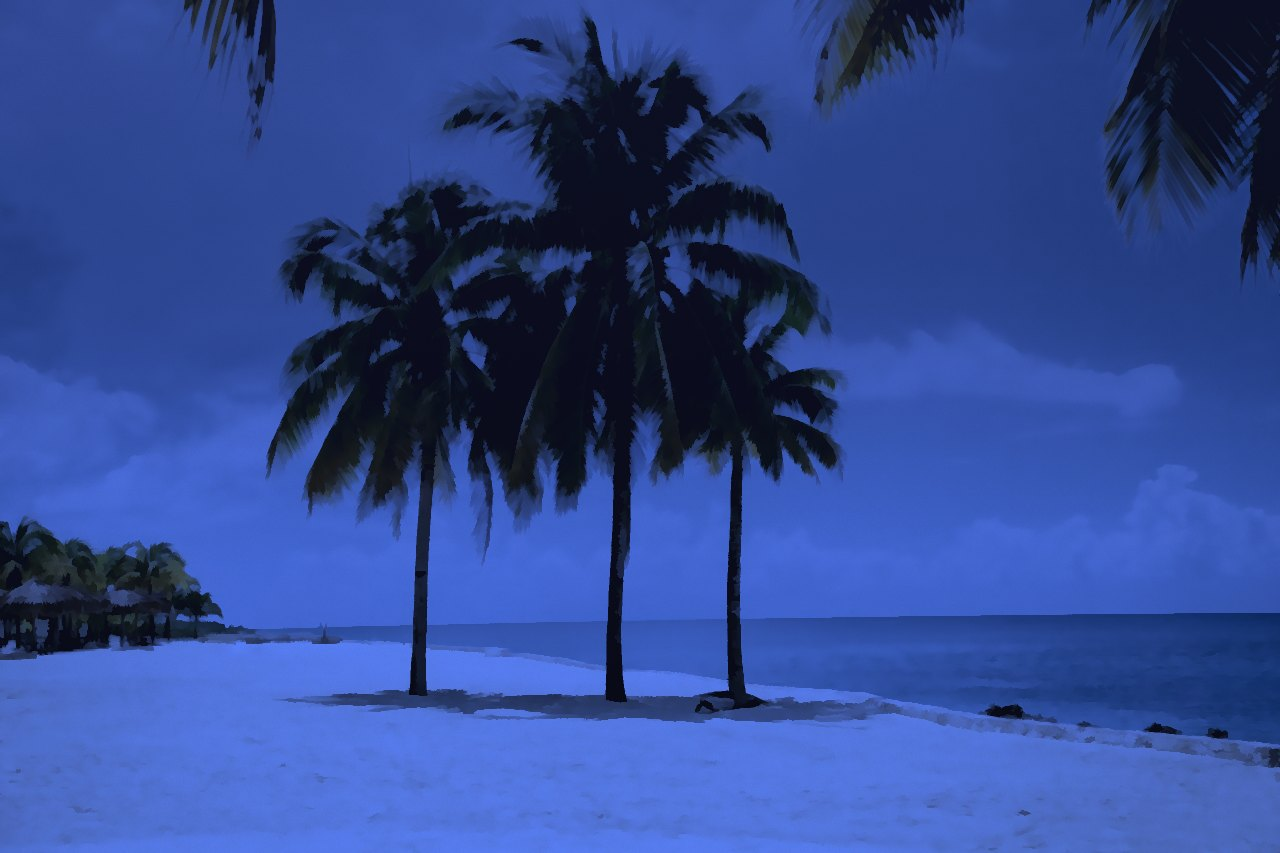
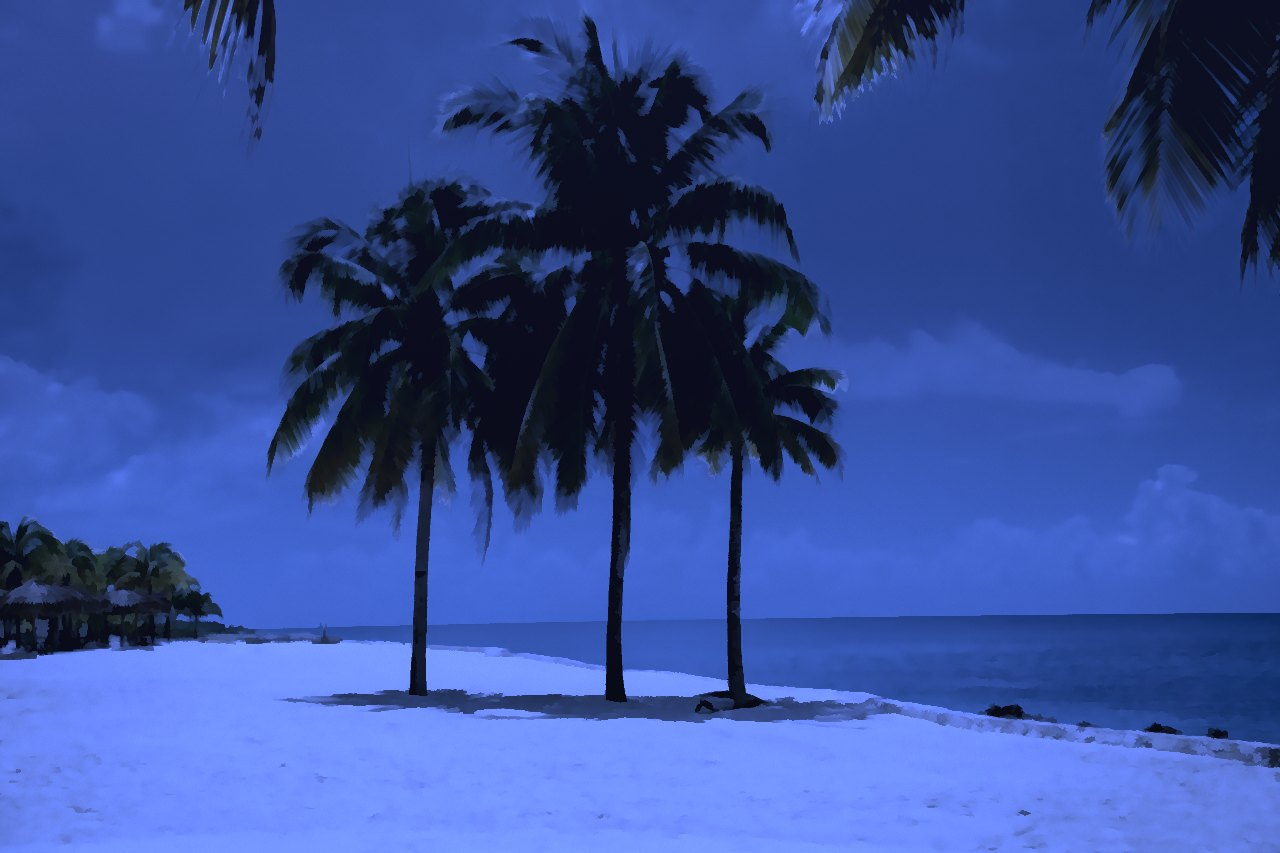
Schedule: sakura, a blossoming orchard and a flower meadow join the places

diff --git a/src/app/dev/shell/scenes/photos.ts b/src/app/dev/shell/scenes/photos.ts
@@ -91,6 +91,52 @@ export const PLACES = {
     sunset: shot("desert-sunset", { horizon: 0.33, swing: 0, life: ["sand", "birds"] }),
     night: shot("desert-night", { horizon: 0.72, swing: 0, life: ["sand"] }),
   },
+  sakura: {
+    day: shot("sakura-day", { horizon: 0.6, sway: [0.3, 0.62], life: ["petals", "birds"] }),
+    sunset: shot("sakura-sunset", { horizon: 0.45, sway: [0.35, 0.85], life: ["petals", "birds"] }),
+    // made from the day's photograph: the night photographs found were floodlit and crowded
+    night: shot(
+      "sakura-night",
+      { horizon: 0.6, sway: [0.3, 0.62], life: ["petals", "fireflies"] },
+      "sakura-day"
+    ),
+  },
+  orchard: {
+    day: shot("orchard-day", { horizon: 0.02, sway: [0, 0.6], life: ["petals", "butterflies"] }),
+    sunset: shot("orchard-sunset", { horizon: 0.5, sway: [0.05, 0.6], life: ["petals", "birds"] }),
+    // made from the day's photograph: no photograph of a blossoming orchard at night was found
+    night: shot(
+      "orchard-night",
+      { horizon: 0.02, sway: [0, 0.6], life: ["petals", "fireflies"] },
+      "orchard-day"
+    ),
+  },
+  garden: {
+    sunrise: shot("garden-sunrise", {
+      horizon: 0.14,
+      sway: [0.2, 1],
+      swing: 1.5,
+      life: ["butterflies", "birds"],
+    }),
+    day: shot("garden-day", {
+      horizon: 0.32,
+      sway: [0.4, 1],
+      swing: 1.5,
+      life: ["butterflies", "birds"],
+    }),
+    sunset: shot("garden-sunset", {
+      horizon: 0.3,
+      sway: [0.35, 1],
+      swing: 1.5,
+      life: ["butterflies", "birds"],
+    }),
+    night: shot("garden-night", {
+      horizon: 0.72,
+      sway: [0.45, 0.78],
+      swing: 1.5,
+      life: ["fireflies"],
+    }),
+  },
 } satisfies Record<string, Partial<Record<Sky, Picture>>>;
 
 export type Place = keyof typeof PLACES;

diff --git a/public/scenes/README.md b/public/scenes/README.md
@@ -22,10 +22,18 @@ sources are kept here so each can be traced (the title is the file's name on Wik
 | desert-day.jpg | Arid Desolation (Unsplash).jpg | CC0 |
 | desert-sunset.jpg | Sandscape (Unsplash).jpg | CC0 |
 | desert-night.jpg | Milky Way over a Dune Ridge (53908885943).jpg | Public domain |
+| garden-sunrise.jpg | Super Bloom 2017 at Carrizo Plain National Monument (34128252015).jpg | Public domain |
+| garden-day.jpg | Wildflower Meadow (6997737191).jpg | Public domain |
+| garden-sunset.jpg | Coconino National Forest (20170823-FS-Coconino-DLS-011).jpg | Public domain |
+| garden-night.jpg | Flowers and Milky Way (19928301093).jpg | Public domain |
 | mountains-sunrise.jpg | Seiser Alm meadow (Unsplash).jpg | CC0 |
 | mountains-day.jpg | Valley near beautiful lake (Unsplash).jpg | CC0 |
 | mountains-sunset.jpg | Idyllic Seiser Alm meadow (Unsplash).jpg | CC0 |
 | mountains-night.jpg | Yosemite cliff under stars (Unsplash).jpg | CC0 |
+| orchard-day.jpg | Pretty Blossoms All in a Row (50326184663).jpg | Public domain |
+| orchard-sunset.jpg | Plum tree blossoming, Ehrenbach, to south.jpg | CC0 |
+| sakura-day.jpg | Cherry tree and Mount Iwate in spring 2025.jpg | CC0 |
+| sakura-sunset.jpg | Washington Monument (19854e5d-cc0c-4418-aaee-f80b9237d4a4).jpg | Public domain |
 
 ## Painted twins
 
